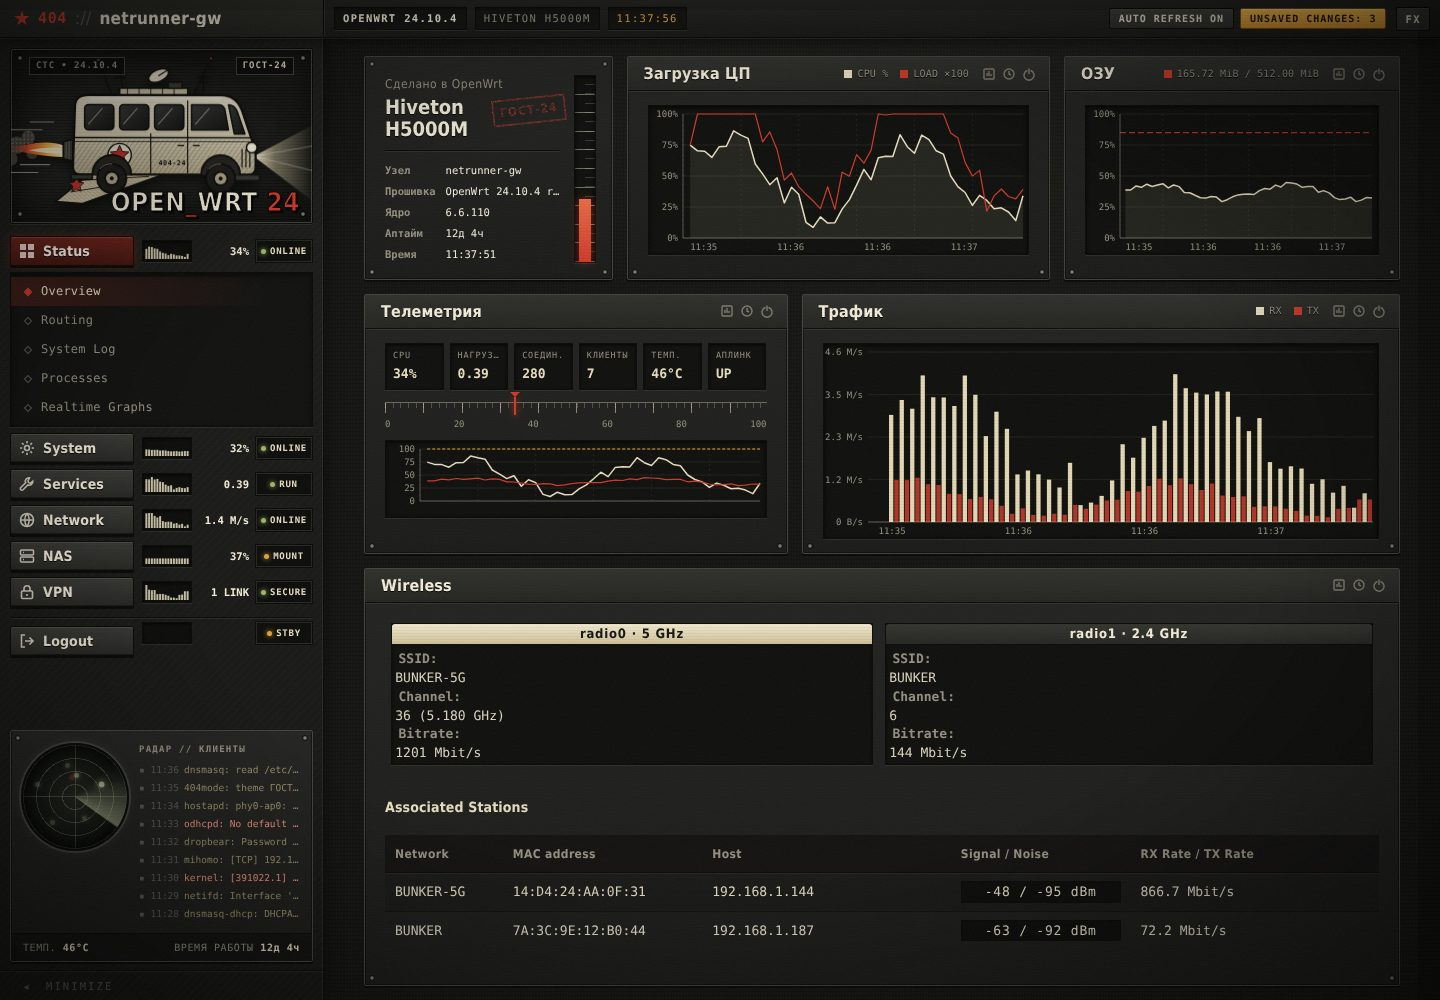
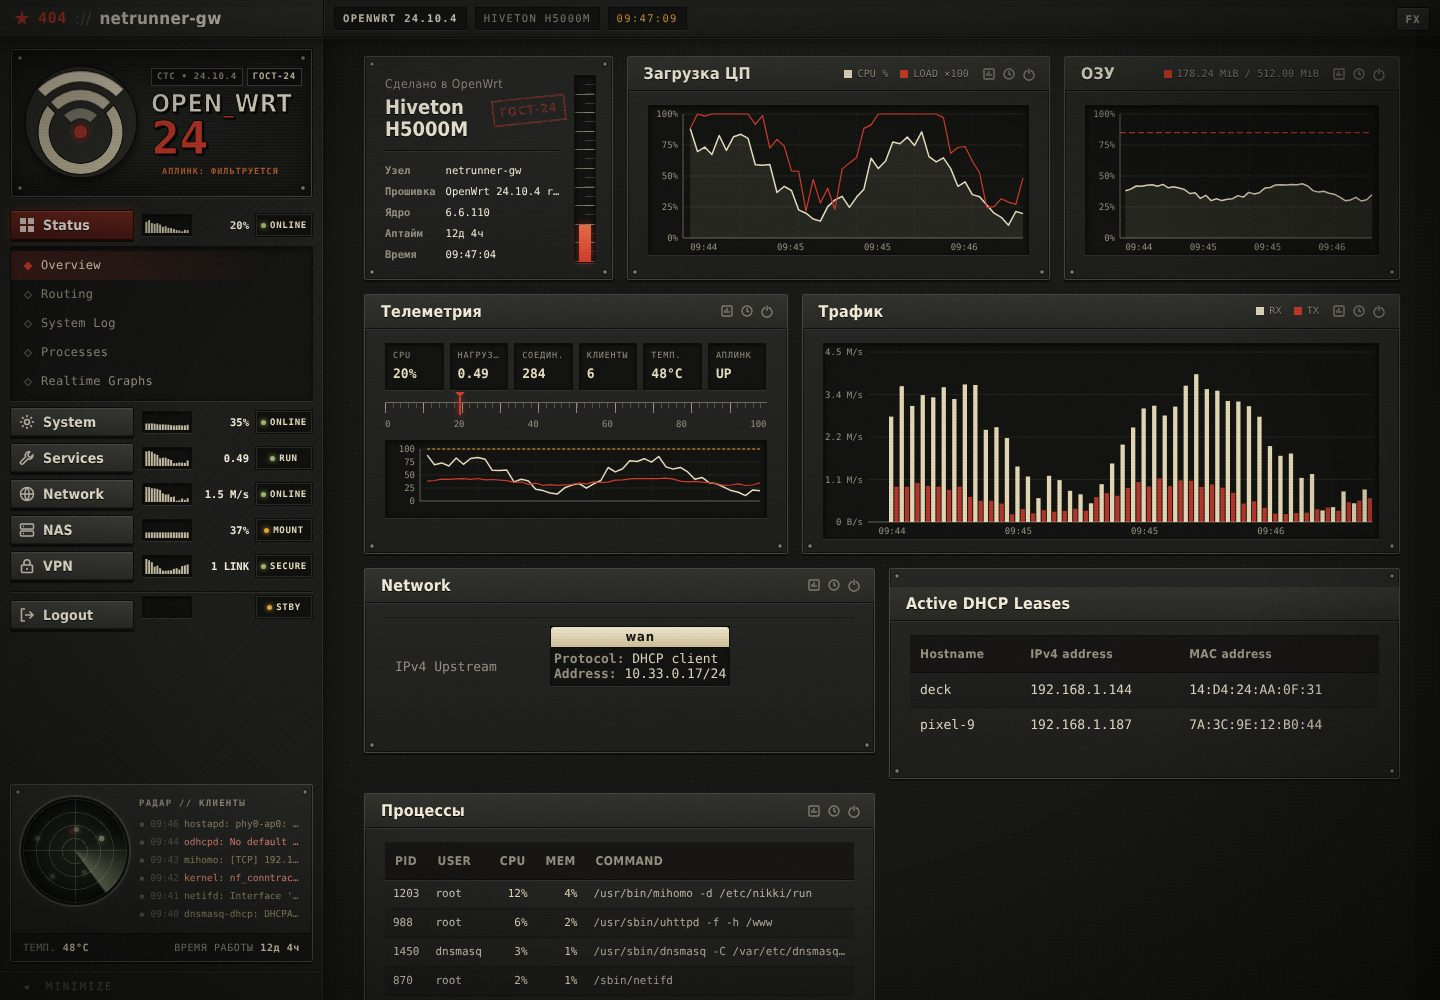
ГОСТ-24: replace van illustration with stylized OpenWrt mark
- sidebar plate: OpenWrt mark (shape from LuCI's bundled logo.svg) on a
  riveted brass disc; signal arcs pulse in sequence, outer arc gets jammed red
- plate text: OPEN_WRT / version / UPLINK: FILTERED
- login screen uses the same mark
- remove gost/van.svg, refresh README screenshots; bump to 1.2.1

Claude-Session: https://claude.ai/code/session_013Doqpfi3tyEyGz461TFYvL

diff --git a/luci-theme-404mode/htdocs/luci-static/404mode/gost/gost.css b/luci-theme-404mode/htdocs/luci-static/404mode/gost/gost.css
@@ -305,15 +305,19 @@
 [data-skin="gost"] .sidebar-scan,
 [data-skin="gost"] .sidebar-uplink { display: none; }
 
-/* title plate with illustration */
+/* title plate with the OpenWrt mark */
 .gost-plate {
 	position: relative;
 	flex: 0 0 auto;
-	height: 176px;
+	display: flex;
+	align-items: center;
+	gap: 12px;
+	height: 150px;
 	margin: 10px 10px 4px;
+	padding: 0 14px 0 12px;
 	overflow: hidden;
 	background:
-		radial-gradient(ellipse at 40% 55%, rgba(var(--g-cream-rgb), .09), transparent 65%),
+		radial-gradient(ellipse at 22% 50%, rgba(var(--g-cream-rgb), .08), transparent 60%),
 		repeating-linear-gradient(0deg, rgba(0, 0, 0, .25) 0 1px, transparent 1px 3px),
 		#1a1b18;
 	border: 1px solid #0b0b0a;
@@ -333,54 +337,123 @@
 	background-repeat: no-repeat;
 }
 
-.gost-plate-art {
-	position: absolute;
-	left: -8px;
-	top: 10px;
-	width: calc(100% + 10px);
-	height: auto;
-	filter: drop-shadow(0 6px 6px rgba(0, 0, 0, .6));
-	animation: g-hover 4.5s ease-in-out infinite;
+/* the mark */
+.gm {
+	--gm-ink: #070706;
+	--gm-face: #e9dfc2;
+	--gm-dot: var(--g-red);
+	--gm-jam: var(--g-red);
+	display: block;
+	flex: 0 0 auto;
+	width: 116px;
+	height: 116px;
+	overflow: visible;
+	filter: drop-shadow(0 4px 5px rgba(0, 0, 0, .65));
 }
 
-@keyframes g-hover {
-	0%, 100% { transform: translateY(0) rotate(-.6deg); }
-	50% { transform: translateY(-4px) rotate(.4deg); }
+.gm-disc {
+	fill: #2b2c27;
+	stroke: #0b0b0a;
+	stroke-width: 1.4;
 }
 
-html.no-fx .gost-plate-art { animation: none; }
+.gm-groove {
+	fill: none;
+	stroke: rgba(var(--g-cream-rgb), .16);
+	stroke-width: .8;
+	stroke-dasharray: 1.2 2.6;
+}
+
+.gm-ring,
+.gm-arc,
+.gm-dot {
+	stroke: var(--gm-ink);
+	stroke-width: 1.6;
+	stroke-linejoin: round;
+	paint-order: stroke fill;
+}
+
+.gm-ring {
+	fill: var(--gm-face);
+	fill: color-mix(in srgb, var(--gm-face) 72%, #8a7d5a);
+}
+
+.gm-arc { fill: var(--gm-face); }
+
+.gm-dot {
+	fill: var(--gm-dot);
+	filter: drop-shadow(0 0 3px rgba(var(--g-red-rgb), .9));
+}
+
+/* transmitter: dot → inner → middle → outer, outer gets jammed now and then */
+.gm-a3 { animation: gm-tx 3.2s infinite; animation-delay: .25s; }
+.gm-a2 { animation: gm-tx 3.2s infinite; animation-delay: .5s; }
+.gm-a1 { animation: gm-tx 3.2s infinite, gm-jam 9.6s steps(1) infinite; animation-delay: .75s, 0s; }
+.gm-dot { animation: gm-dot 3.2s infinite; }
+
+@keyframes gm-tx {
+	0%, 100% { opacity: .38; }
+	12%, 30% { opacity: 1; }
+	55% { opacity: .38; }
+}
+
+@keyframes gm-dot {
+	0%, 100% { opacity: .7; }
+	6%, 20% { opacity: 1; }
+}
+
+@keyframes gm-jam {
+	0%, 63% { fill: var(--gm-face); }
+	64%, 65%, 67%, 69% { fill: var(--gm-jam); }
+	66%, 68% { fill: var(--gm-face); }
+	70%, 78% { fill: var(--gm-jam); }
+	79%, 100% { fill: var(--gm-face); }
+}
+
+html.no-fx .gm-arc,
+html.no-fx .gm-dot { animation: none; opacity: 1; }
+
+/* plate text */
+.gost-plate-text {
+	position: relative;
+	z-index: 3;
+	display: flex;
+	flex-direction: column;
+	align-items: flex-start;
+	min-width: 0;
+	gap: 2px;
+}
+
+.gost-plate-tags {
+	display: flex;
+	gap: 4px;
+	margin-bottom: 4px;
+}
 
 .gost-plate-tag {
-	position: absolute;
-	z-index: 3;
-	top: 8px;
-	padding: 1px 6px;
+	padding: 1px 5px;
 	font-family: var(--n-font);
 	font-size: 9px;
 	font-weight: 700;
-	letter-spacing: .1em;
+	letter-spacing: .08em;
 	color: var(--n-text-dim);
 	background: rgba(10, 10, 9, .75);
 	border: 1px solid var(--g-edge);
+	white-space: nowrap;
 }
 
-.gost-plate-tag-l { left: 18px; }
-.gost-plate-tag-r { right: 18px; color: var(--g-cream); }
+.gost-plate-tag-r { color: var(--g-cream); }
 
 .gost-plate-title {
-	position: absolute;
-	z-index: 3;
-	right: 12px;
-	bottom: 8px;
 	font-family: var(--n-font-ui);
-	font-size: 26px;
+	font-size: 25px;
 	font-weight: 900;
 	font-stretch: condensed;
 	letter-spacing: .02em;
-	line-height: 1;
+	line-height: .95;
 	color: #f6f0dc;
 	-webkit-text-stroke: 1px #050505;
-	text-shadow: 2px 2px 0 #050505, 0 0 18px rgba(0, 0, 0, .9);
+	text-shadow: 2px 2px 0 #050505;
 	white-space: nowrap;
 }
 
@@ -389,7 +462,40 @@ html.no-fx .gost-plate-art { animation: none; }
 	color: var(--g-red);
 }
 
-.gost-plate-title b { color: var(--g-red); }
+.gost-plate-num {
+	font-family: var(--n-font-ui);
+	font-size: 46px;
+	font-weight: 900;
+	line-height: .9;
+	color: var(--g-red);
+	-webkit-text-stroke: 1px #050505;
+	text-shadow: 2px 2px 0 #050505;
+}
+
+.gost-plate-sub {
+	margin-top: 4px;
+	font-family: var(--n-font);
+	font-size: 8.5px;
+	font-weight: 700;
+	letter-spacing: .12em;
+	color: var(--n-rust);
+	white-space: nowrap;
+}
+
+.gost-plate-sub::before {
+	content: "";
+	display: inline-block;
+	width: 6px;
+	height: 6px;
+	margin-right: 5px;
+	border-radius: 50%;
+	background: var(--n-rust);
+	box-shadow: 0 0 6px var(--n-rust);
+	vertical-align: 0;
+	animation: n-blink 1.6s steps(1) infinite;
+}
+
+html.no-fx .gost-plate-sub::before { animation: none; }
 
 /* menu as a column of metal buttons + telemetry column */
 [data-skin="gost"] #mainmenu { padding: 8px 10px 6px; }
@@ -1248,16 +1354,13 @@ body.gd-on #view.gd-grid .table { overflow-x: auto; }
 
 [data-skin="gost"] .login { max-width: 440px; }
 
-.login-van {
-	display: block;
-	width: 320px;
-	max-width: 90%;
-	margin: 0 auto 6px;
-	filter: drop-shadow(0 10px 10px rgba(0, 0, 0, .6));
-	animation: g-hover 4.5s ease-in-out infinite;
+.login-mark {
+	display: flex;
+	justify-content: center;
+	margin: 0 0 12px;
 }
 
-html.no-fx .login-van { animation: none; }
+.login-mark .gm { width: 150px; height: 150px; }
 
 [data-skin="gost"] .login-code {
 	color: var(--g-red);
@@ -1324,9 +1427,11 @@ html.no-fx .login-van { animation: none; }
 	[data-skin="gost"] .sidebar { width: min(320px, 92vw); }
 	[data-skin="gost"] header.hud .brand { border-right: 0; box-shadow: none; }
 
-	.gost-plate { height: 150px; }
+	.gost-plate { height: 136px; }
+	.gm { width: 100px; height: 100px; }
 	[data-skin="gost"] #mainmenu { min-height: 190px; }
 	.gost-plate-title { font-size: 22px; }
+	.gost-plate-num { font-size: 40px; }
 
 	.gd { gap: 10px; }
 	.gd-plaque, .gd-cpu, .gd-ram, .gd-strip, .gd-traffic { grid-column: 1 / -1; }

diff --git a/README.md b/README.md
@@ -14,7 +14,7 @@
 
 ### ГОСТ-24 — полевой бункер
 
-Дизельпанк-консоль: сталь с заклёпками, кремовый люминофор, сигнальный красный, реактивная «буханка» на шильдике.
+Дизельпанк-консоль: сталь с заклёпками, кремовый люминофор, сигнальный красный, знак OpenWrt на латунном диске.
 
 ![ГОСТ-24](docs/gost-overview.jpg)
 
@@ -22,7 +22,7 @@
 |---|---|---|
 | ![ГОСТ-24 settings](docs/gost-settings.jpg) | ![ГОСТ-24 login](docs/gost-login.jpg) | ![ГОСТ-24 mobile](docs/gost-mobile.jpg) |
 
-- **Шильдик** в сайдбаре: иллюстрация, `СТС • версия`, `ГОСТ-24`, `OPEN_WRT 24`.
+- **Шильдик** в сайдбаре: стилизованный знак OpenWrt — дуги сигнала загораются по очереди, внешнюю периодически «глушит» красным; рядом `СТС • версия`, `ГОСТ-24`, `OPEN_WRT 24`, «АПЛИНК: ФИЛЬТРУЕТСЯ». Тот же знак на экране входа.
 - **Телеметрия у каждого пункта меню**: мини-график + значение + статус (`ONLINE`, `SECURE`, `MOUNT`, `STBY`…). Status — CPU, System — RAM, Network — трафик аплинка, NAS — заполнение корня, VPN — активные туннели (WireGuard/OpenVPN/AmneziaWG…), Firewall — соединения conntrack.
 - **Радар**: DHCP-клиенты — отметки на экране, рядом хвост системного журнала, внизу температура и аплинк-время.
 - **Дашборд на странице «Обзор»**: шильдик устройства с вертикальной шкалой загрузки, графики «Загрузка ЦП» и «ОЗУ», «Телеметрия» (CPU, нагрузка, соединения, клиенты, температура, аплинк + линейка), гистограмма трафика RX/TX, таблица процессов. Родные секции LuCI (Wireless, Network, DHCP…) разложены плитками; дублирующиеся System/Memory скрыты.
@@ -95,7 +95,7 @@ luci-theme-404mode/
 │   │   ├── cascade.css          # база компонентов + слой 404 MODE (токены ASH / SAMIZDAT)
 │   │   ├── mobile.css
 │   │   ├── logo.svg, logo_48.png
-│   │   └── gost/{gost.css, van.svg}   # скин ГОСТ-24
+│   │   └── gost/gost.css            # скин ГОСТ-24
 │   ├── 404mode-gost  -> 404mode
 │   ├── 404mode-dark  -> 404mode
 │   ├── 404mode-light -> 404mode
@@ -126,3 +126,4 @@ luci-theme-404mode/
 ## Лицензия
 
 Apache-2.0. Базовые стили компонентов основаны на `luci-theme-bootstrap` (The LuCI Team, Apache-2.0).
+Форма знака OpenWrt взята из логотипа, поставляемого с LuCI (`luci-theme-bootstrap/logo.svg`); OpenWrt — товарный знак проекта OpenWrt.
